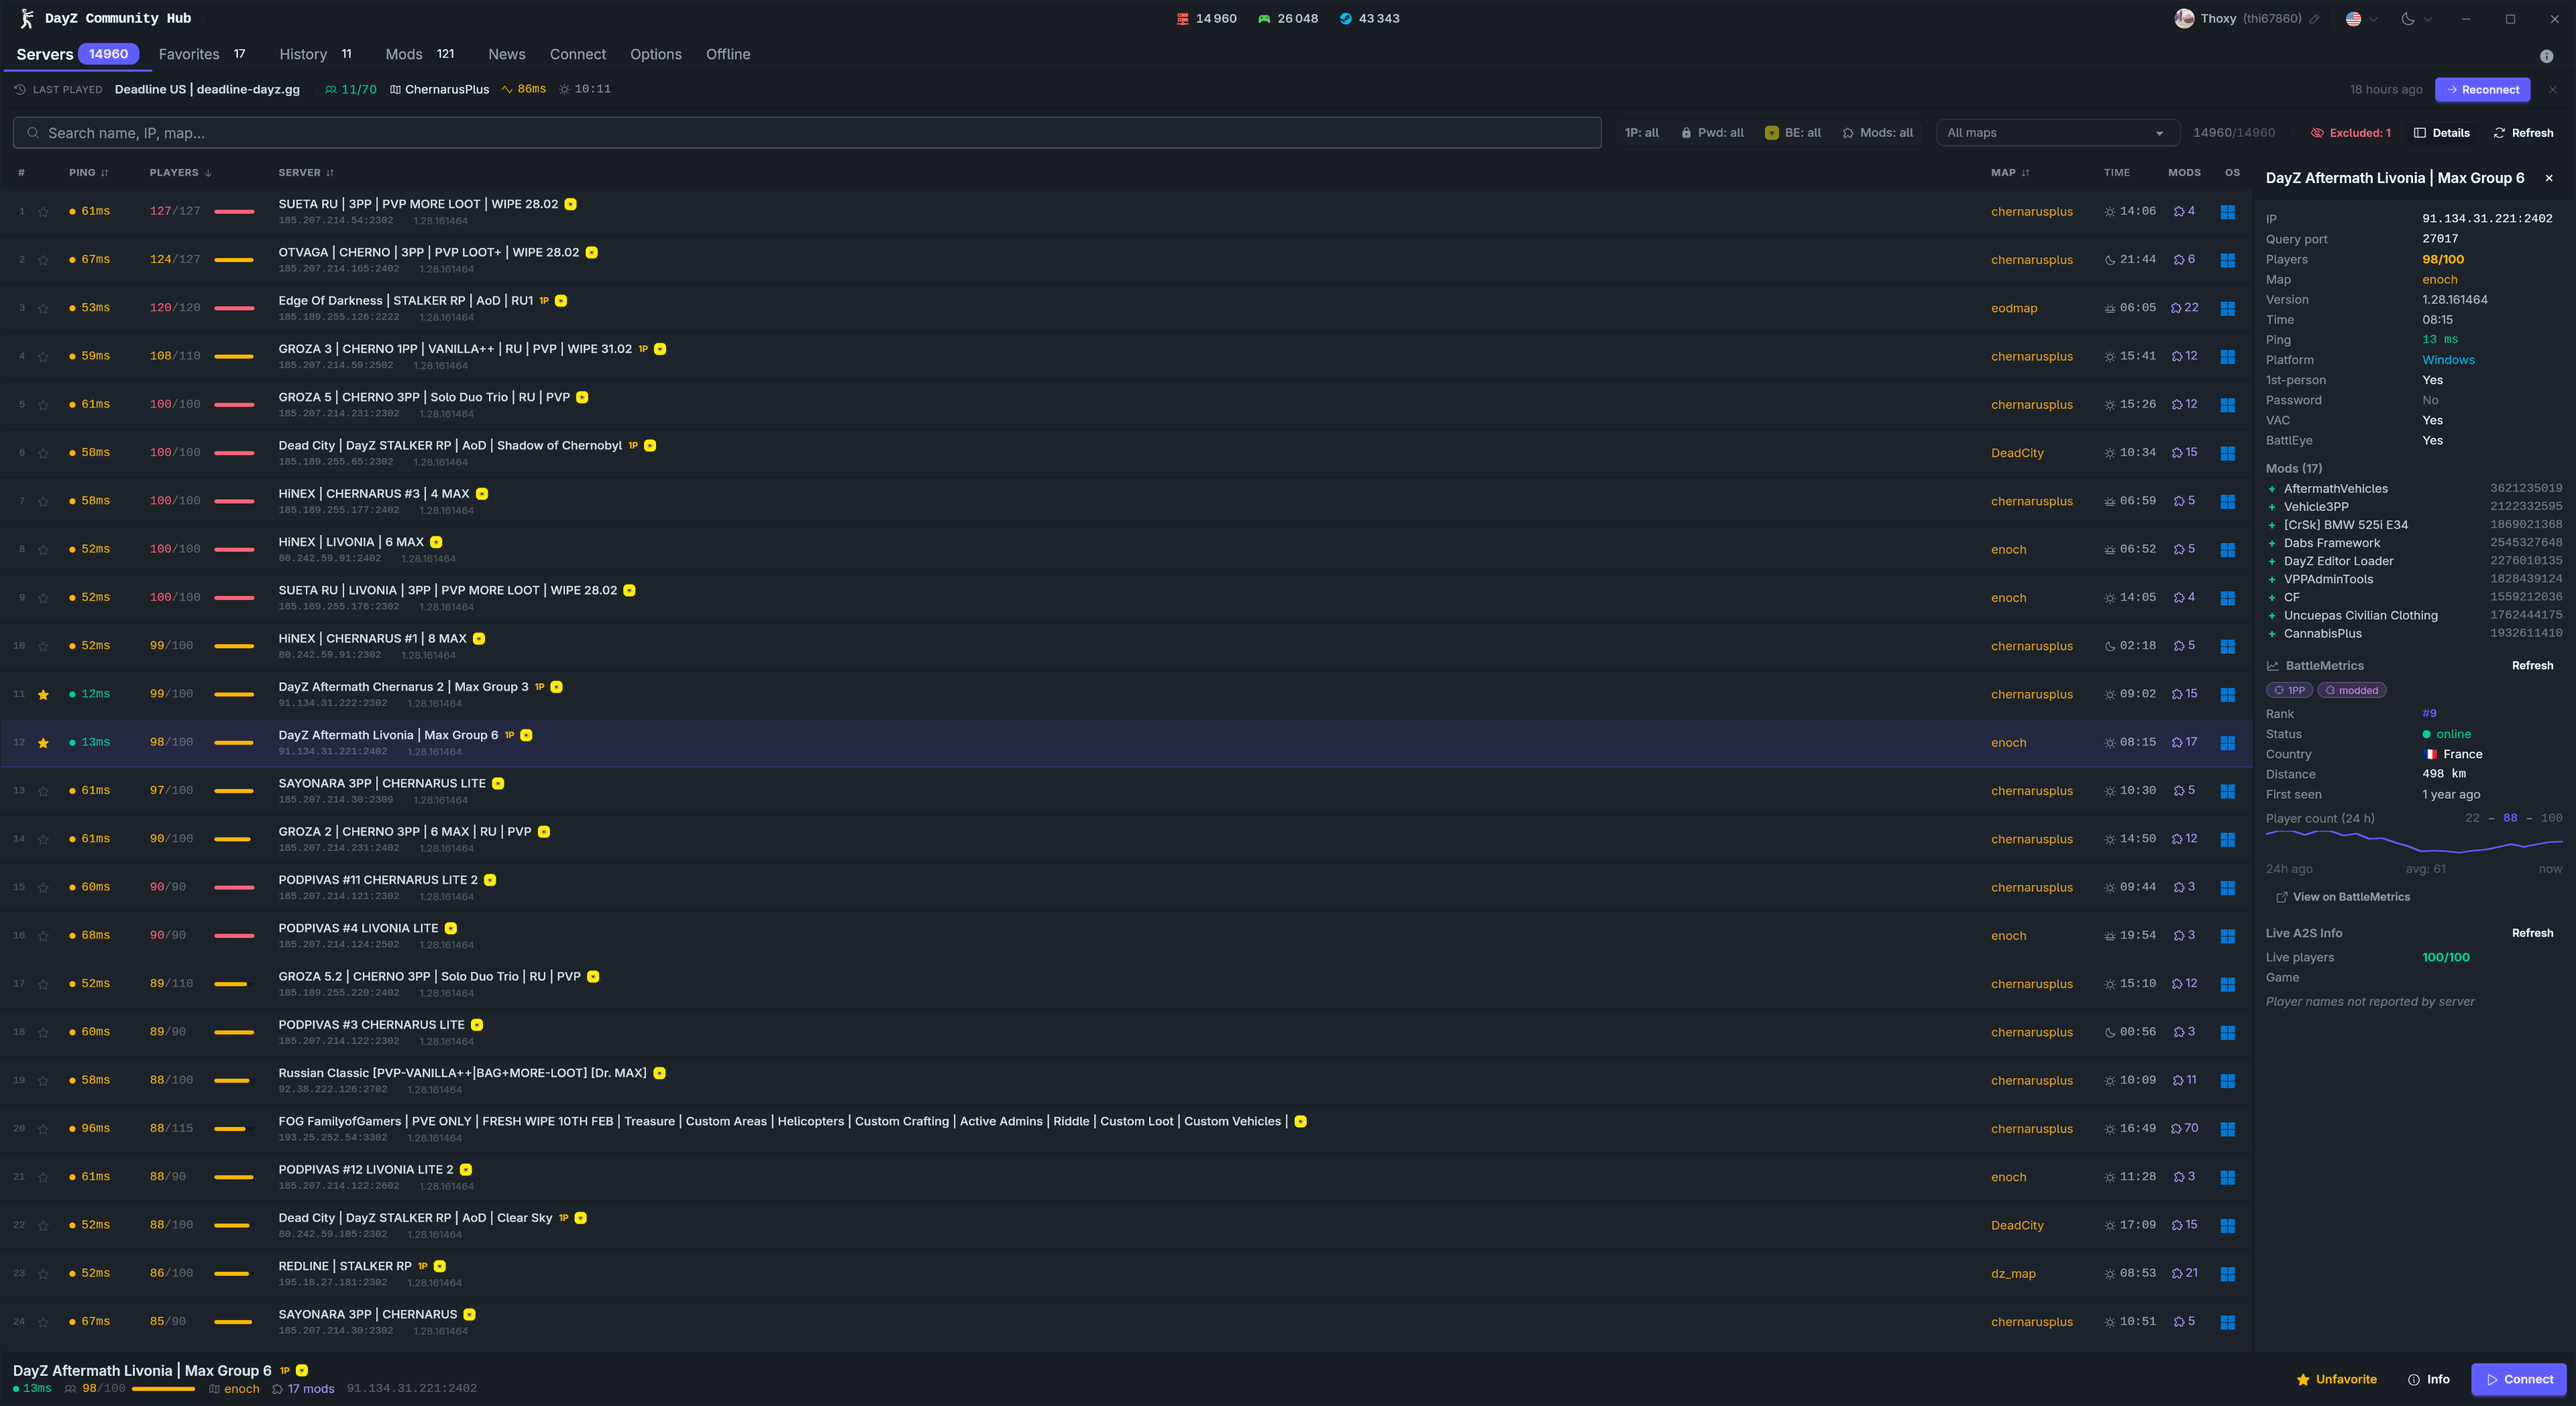
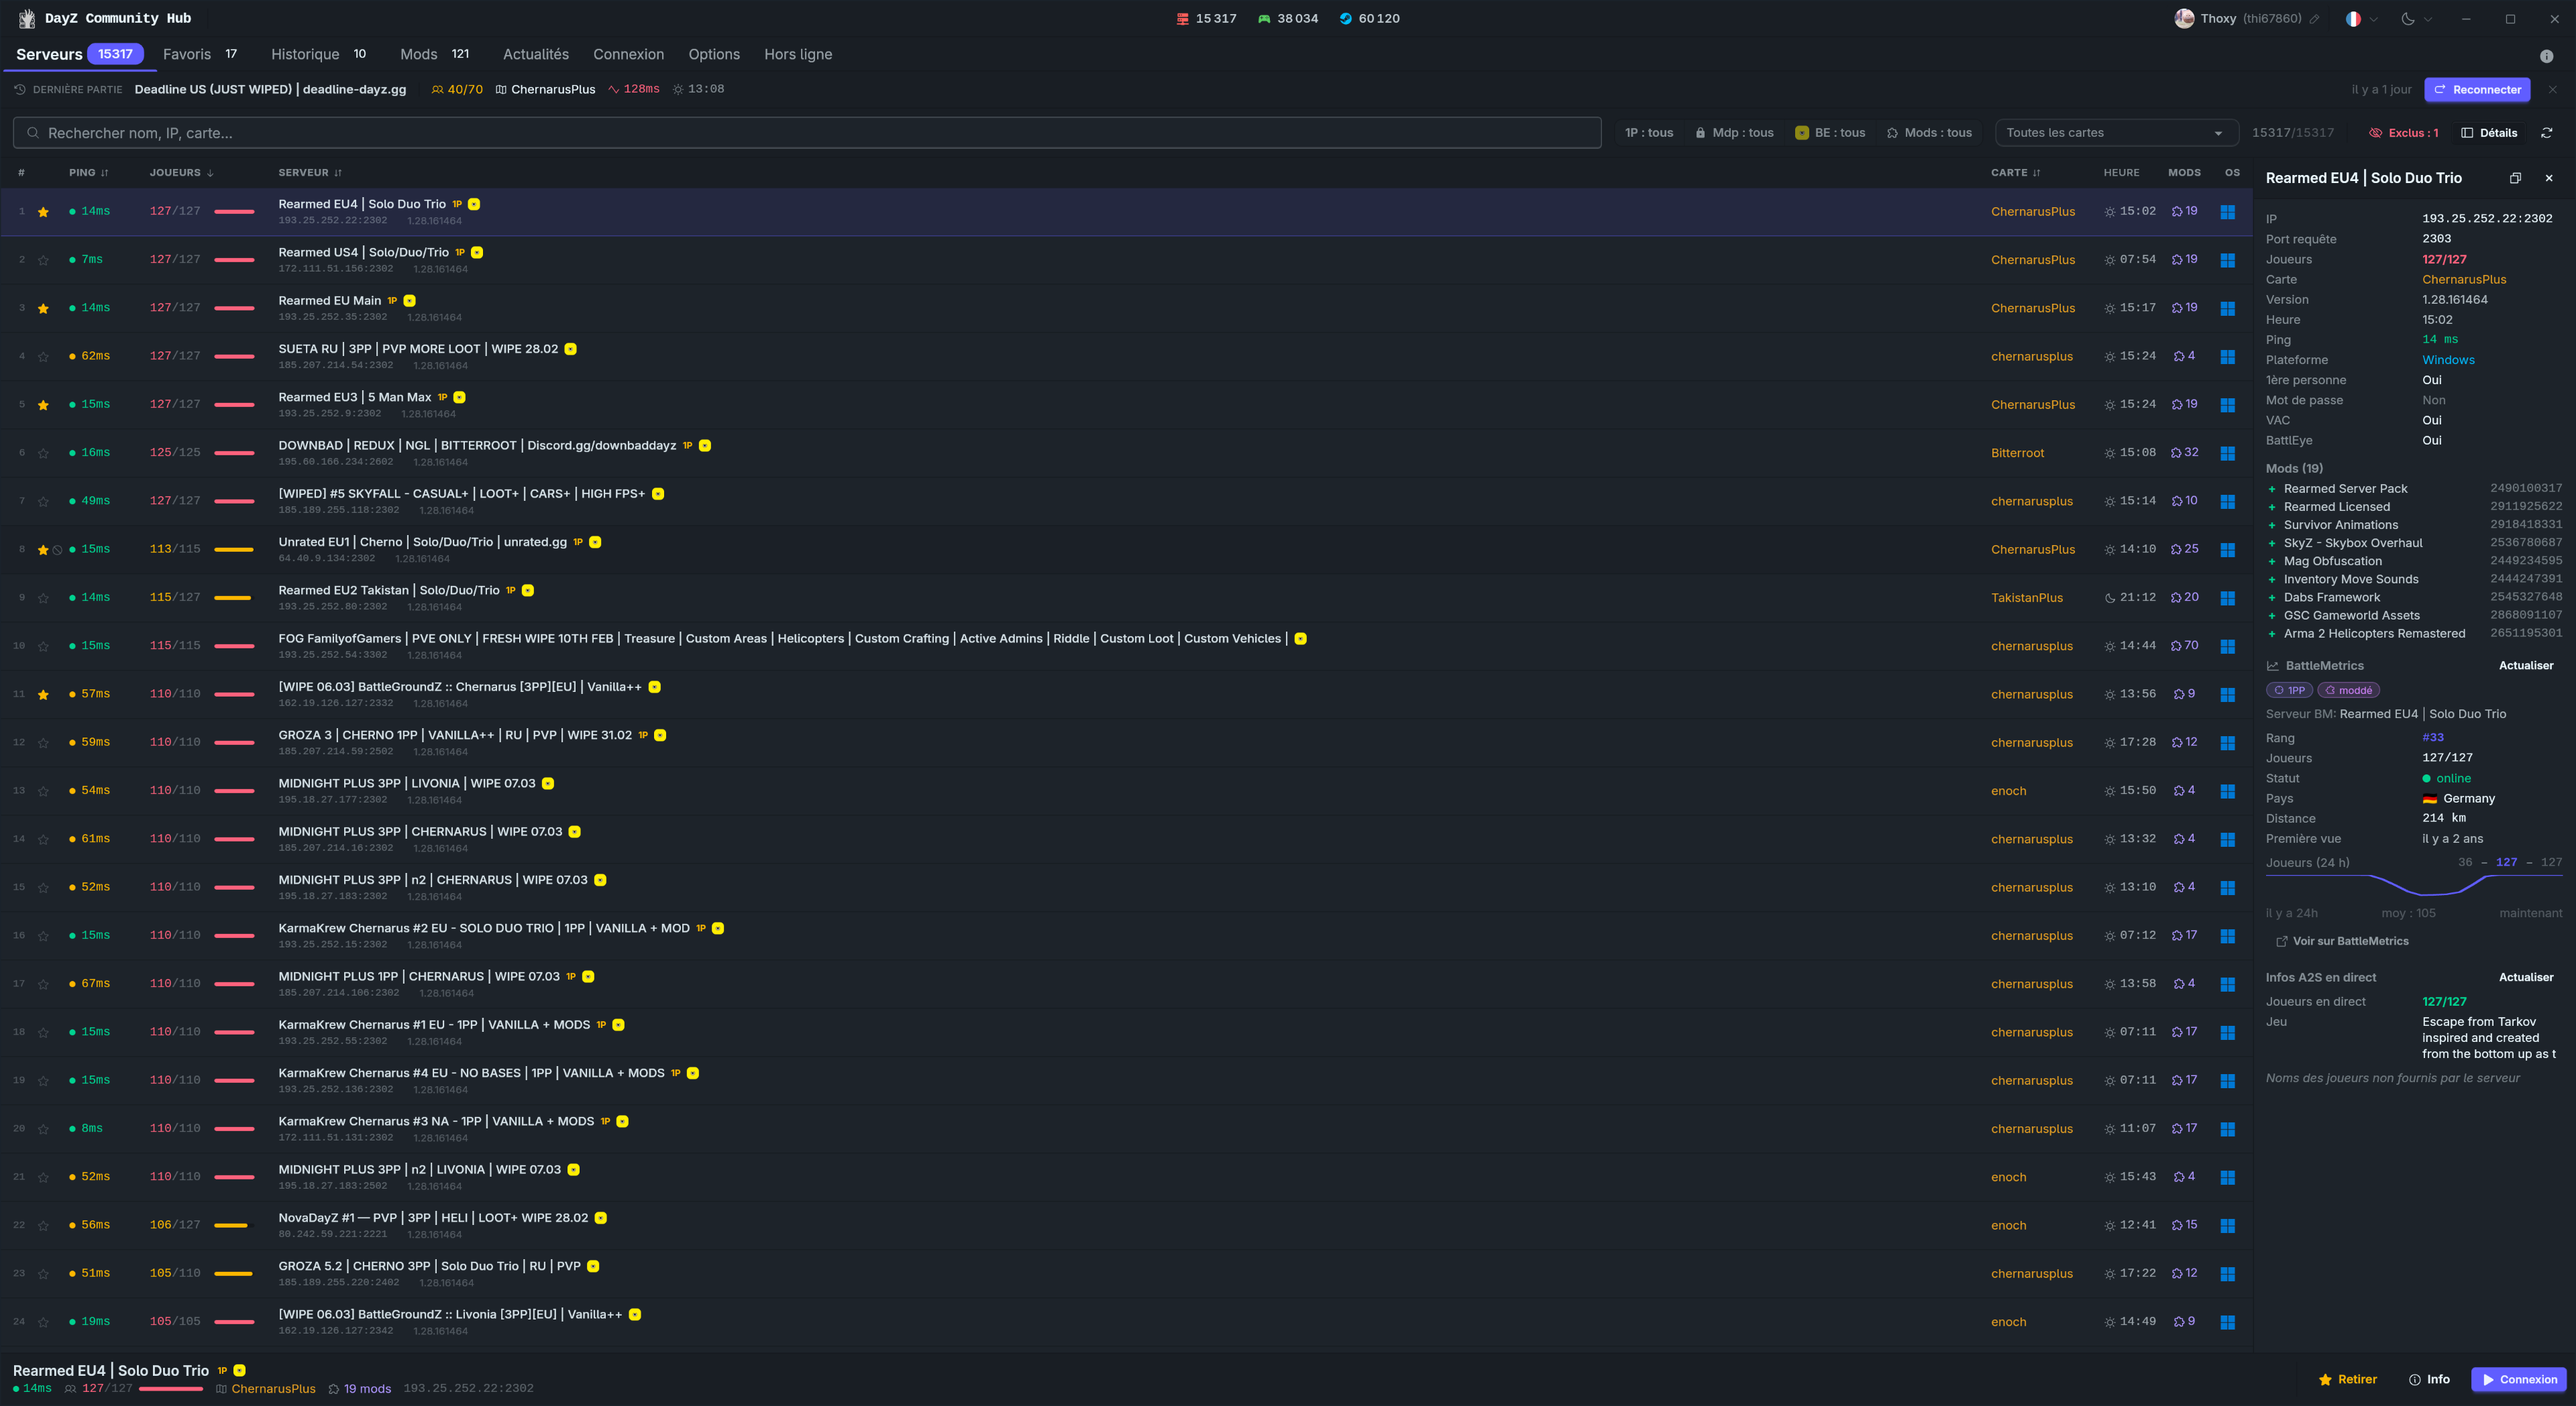
Update README and screenshot

diff --git a/README.md b/README.md
@@ -2,7 +2,7 @@
 
 [![CI](https://git.thoxy.xyz/thoxy/dayz-community-hub/actions/workflows/ci.yml/badge.svg)](https://git.thoxy.xyz/thoxy/dayz-community-hub/actions?workflow=ci.yml)
 [![Release](https://git.thoxy.xyz/thoxy/dayz-community-hub/actions/workflows/release.yml/badge.svg)](https://git.thoxy.xyz/thoxy/dayz-community-hub/actions?workflow=release.yml)
-[![Version](https://img.shields.io/badge/version-0.3.6-blue?style=flat-square)](https://git.thoxy.xyz/thoxy/dayz-community-hub/releases)
+[![Version](https://img.shields.io/badge/version-0.4.0-blue?style=flat-square)](https://git.thoxy.xyz/thoxy/dayz-community-hub/releases)
 ![Platform](https://img.shields.io/badge/platform-Windows%20%7C%20Linux%20(AppImage%2C%20deb%2C%20rpm)-lightgrey?style=flat-square)
 [![License](https://img.shields.io/badge/license-MIT-green?style=flat-square)](LICENSE)
 
